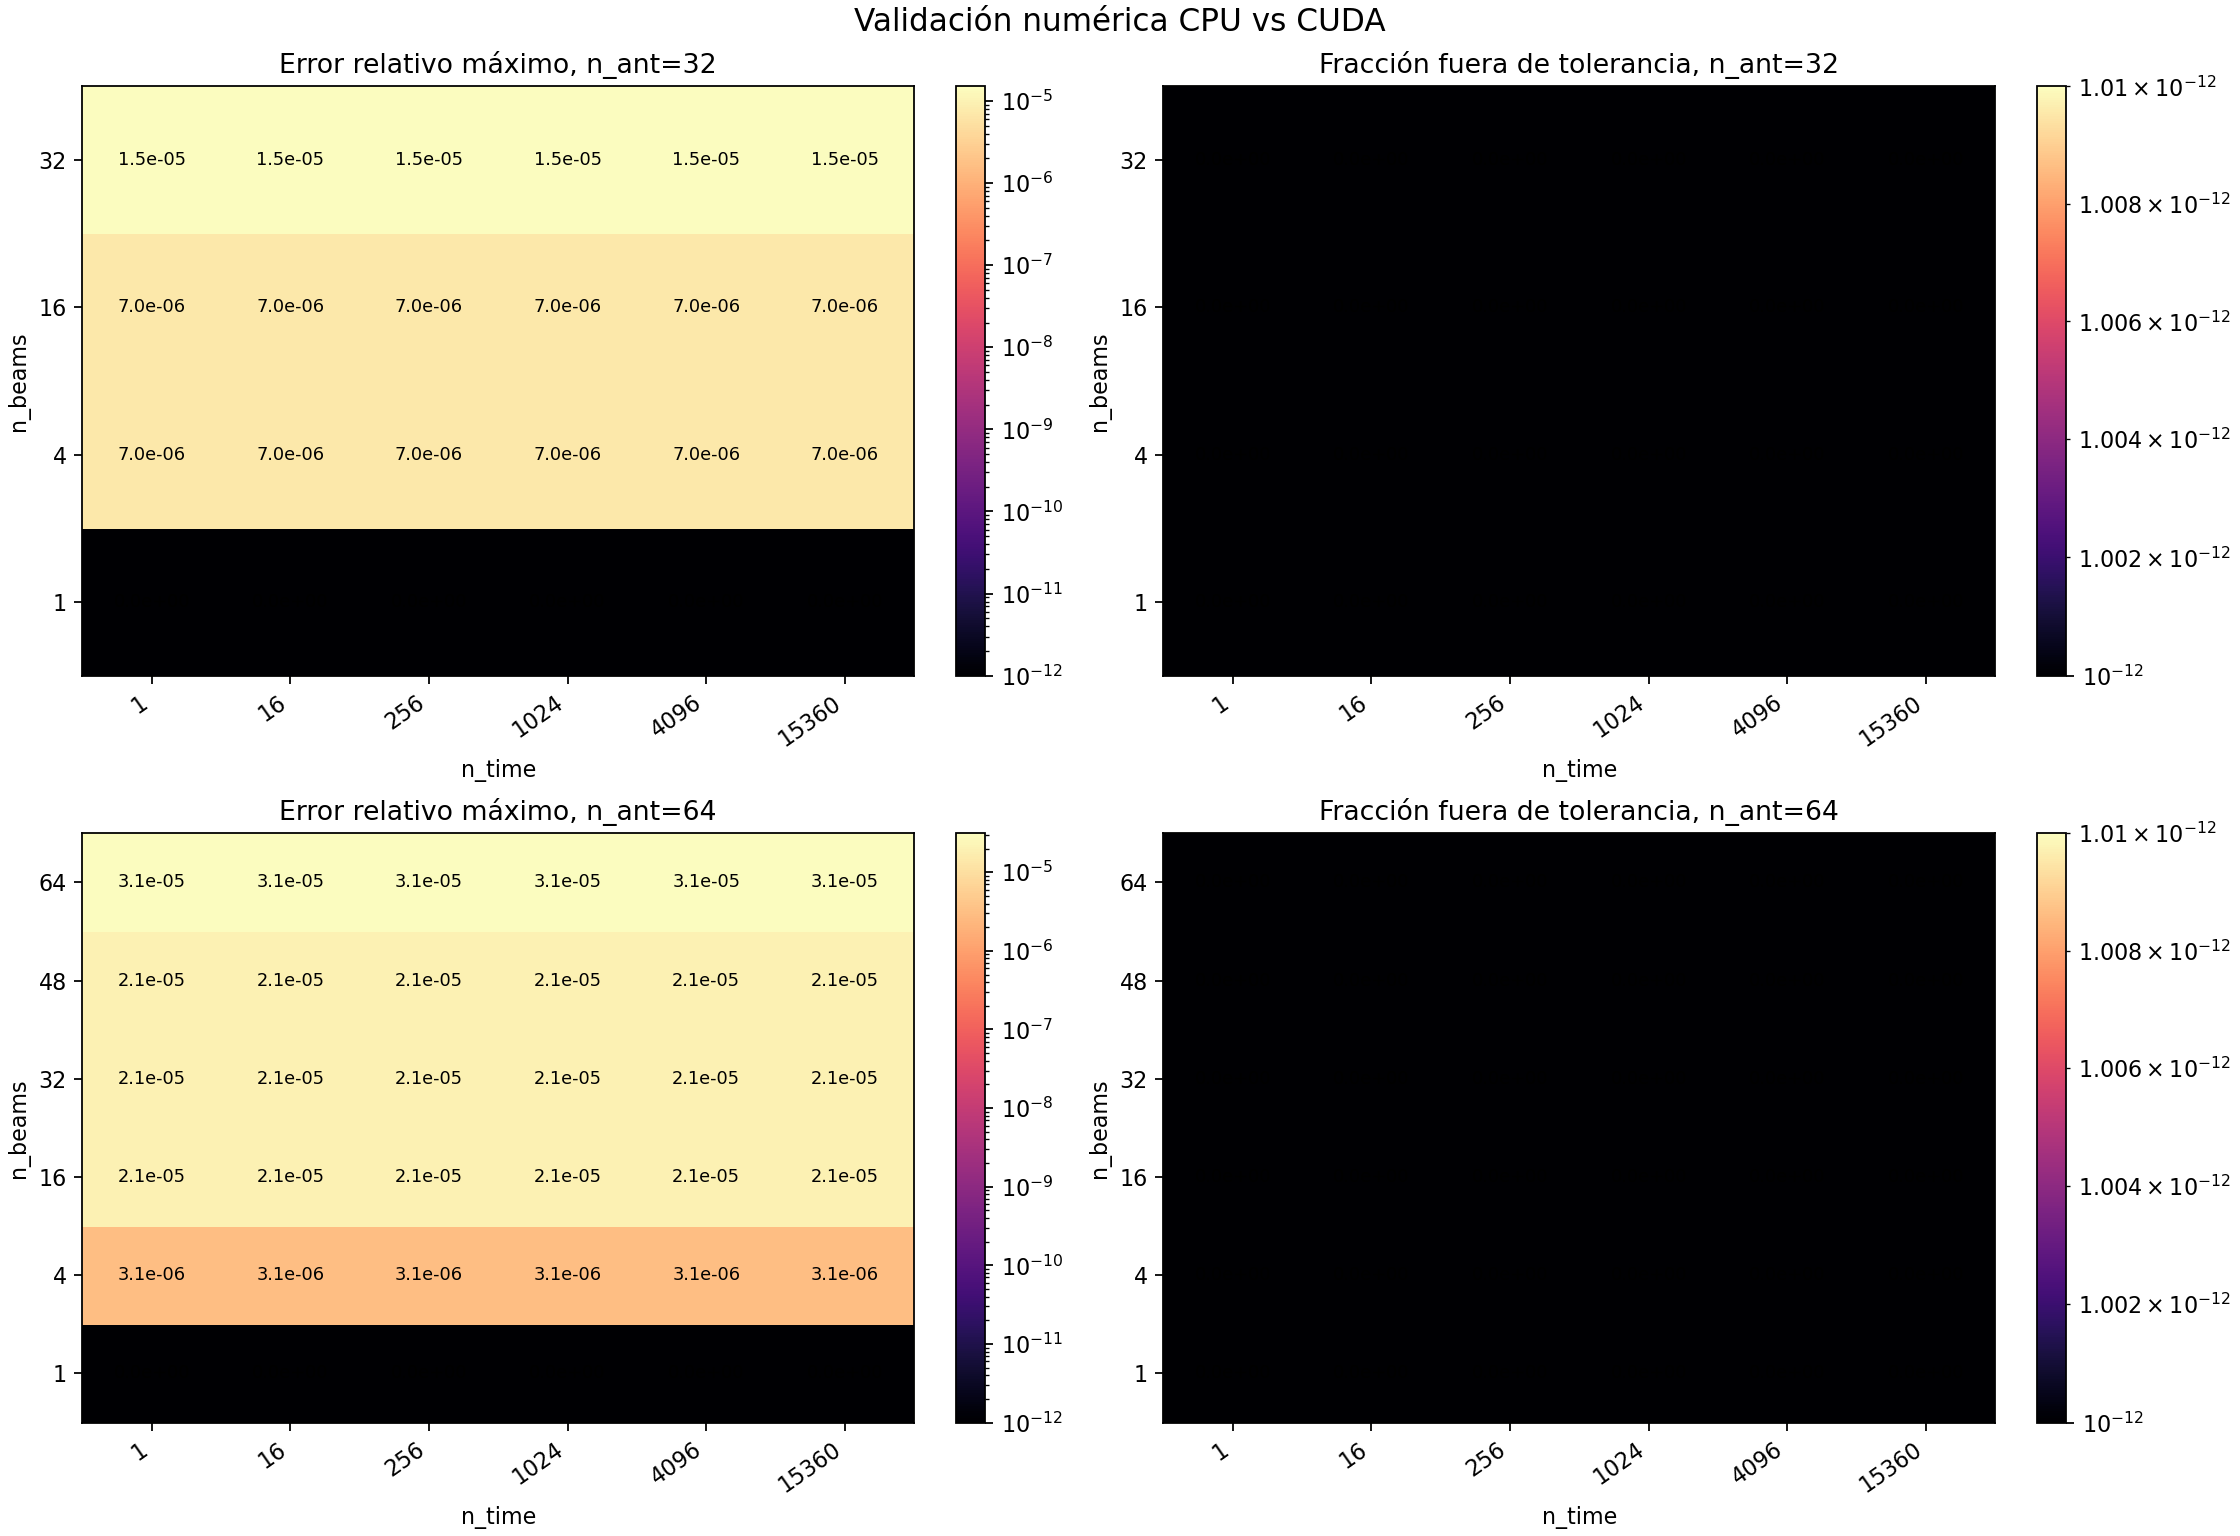
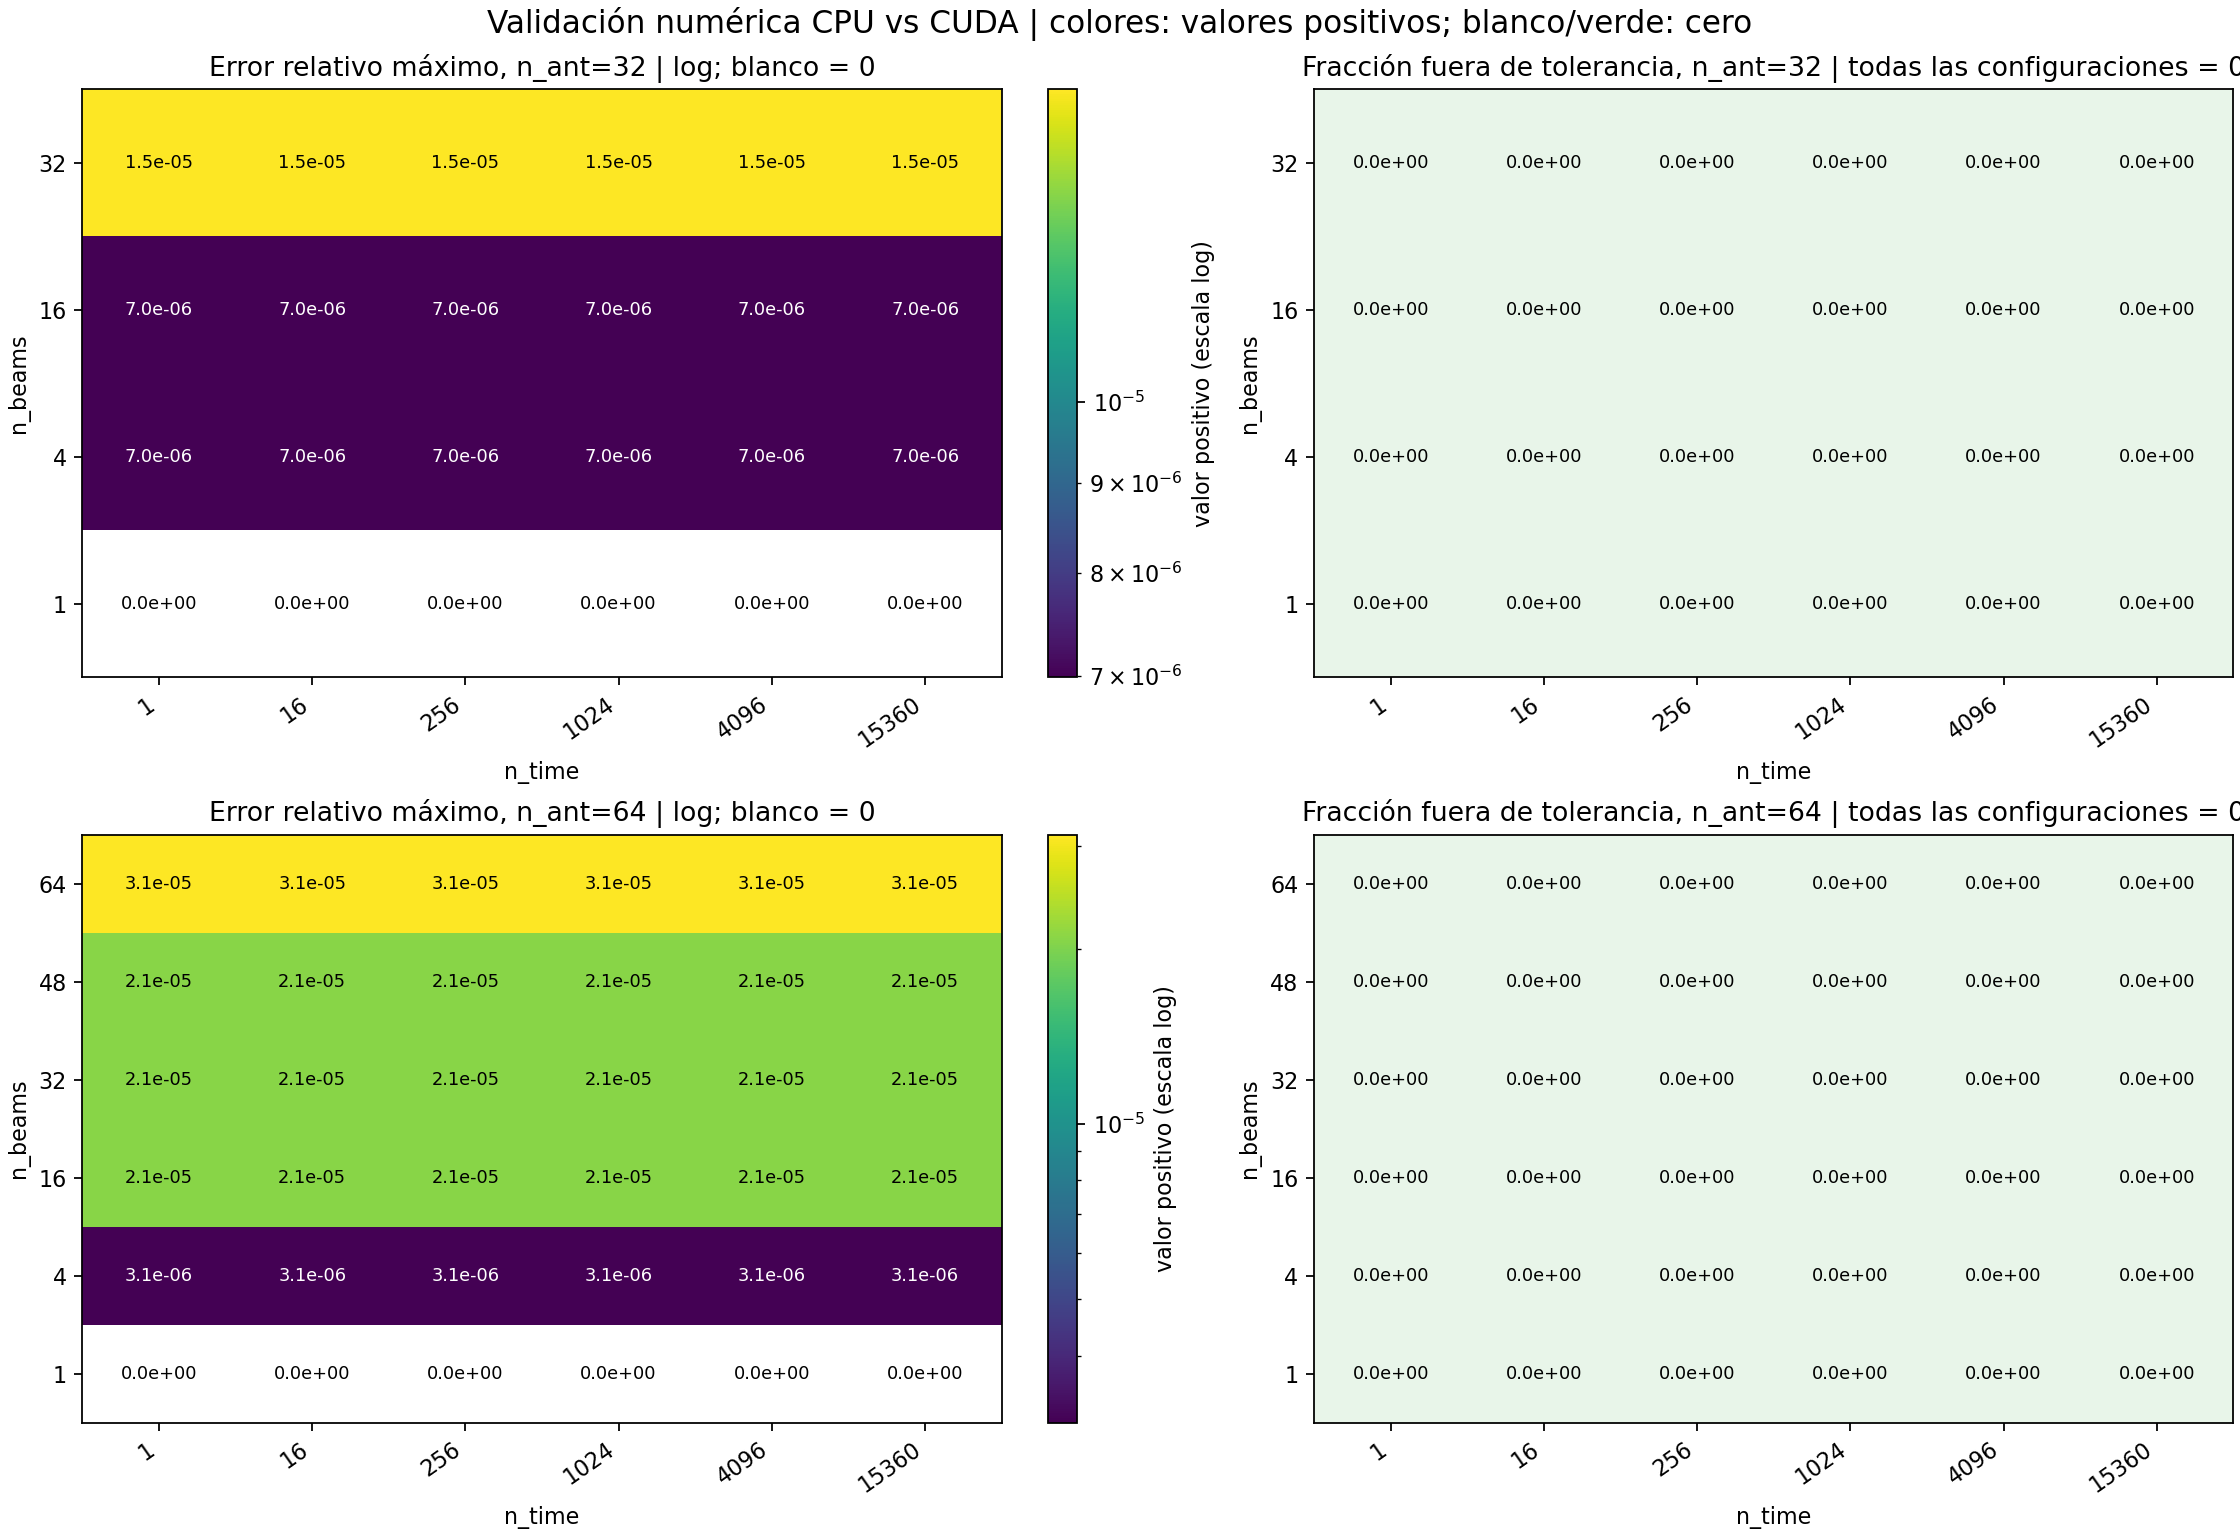
Last results

diff --git a/tools/plot_benchmark.py b/tools/plot_benchmark.py
@@ -103,6 +103,18 @@ def matrix_for(records: Iterable[dict[str, float]], n_ant: int,
     return beams, times, matrix
 
 
+def positive_log_limits(values: np.ndarray) -> tuple[float, float] | None:
+    values = np.asarray(values, dtype=np.float64)
+    positive = values[np.isfinite(values) & (values > 0.0)]
+    if not positive.size:
+        return None
+    lower = float(np.min(positive))
+    upper = float(np.max(positive))
+    if lower == upper:
+        lower = upper / 10.0
+    return lower, upper
+
+
 def _records_for(summary: list[dict[str, float]], n_ant: int,
                  n_beams: int) -> list[dict[str, float]]:
     return sorted(
@@ -198,13 +210,19 @@ def plot_performance(summary: list[dict[str, float]], metadata: dict,
     plt.close(figure)
 
 
-def _annotate_matrix(axis, matrix: np.ndarray, formatter: str) -> None:
+def _annotate_matrix(axis, matrix: np.ndarray, formatter: str,
+                     norm=None, colormap=None) -> None:
     for row in range(matrix.shape[0]):
         for column in range(matrix.shape[1]):
             value = matrix[row, column]
             if np.isfinite(value):
+                text_color = "black"
+                if norm is not None and colormap is not None and value > 0.0:
+                    red, green, blue, _ = colormap(norm(value))
+                    luminance = 0.2126 * red + 0.7152 * green + 0.0722 * blue
+                    text_color = "white" if luminance < 0.48 else "black"
                 axis.text(column, row, format(value, formatter), ha="center",
-                          va="center", fontsize=8, color="black")
+                          va="center", fontsize=8, color=text_color)
 
 
 def plot_speedup_heatmaps(summary: list[dict[str, float]],
@@ -252,7 +270,7 @@ def plot_validation(validation: list[dict[str, float]],
     import matplotlib
     matplotlib.use("Agg")
     import matplotlib.pyplot as plt
-    from matplotlib.colors import LogNorm
+    from matplotlib.colors import ListedColormap, LogNorm
 
     records = [dict(record, outside_fraction=(
         record["outside_tolerance"] / record["n_outputs"]))
@@ -268,23 +286,38 @@ def plot_validation(validation: list[dict[str, float]],
             ("outside_fraction", "Fracción fuera de tolerancia"),
         )):
             beams, times, matrix = matrix_for(records, n_ant, field)
-            display = np.maximum(matrix, 1.0e-12)
             axis = axes[row, column]
-            image = axis.imshow(
-                display, aspect="auto", origin="lower", cmap="magma",
-                norm=LogNorm(vmin=float(np.nanmin(display)),
-                             vmax=max(float(np.nanmax(display)),
-                                      float(np.nanmin(display)) * 1.01)),
-            )
+            log_limits = positive_log_limits(matrix)
+            if log_limits is None:
+                colormap = ListedColormap(["#e8f5e9"])
+                axis.imshow(
+                    np.zeros_like(matrix), aspect="auto", origin="lower",
+                    cmap=colormap, vmin=0.0, vmax=1.0,
+                )
+                title_suffix = " | todas las configuraciones = 0"
+                _annotate_matrix(axis, matrix, ".1e")
+            else:
+                colormap = plt.get_cmap("viridis").copy()
+                colormap.set_bad("white")
+                norm = LogNorm(vmin=log_limits[0], vmax=log_limits[1])
+                display = np.ma.masked_invalid(np.ma.masked_less_equal(matrix, 0.0))
+                image = axis.imshow(
+                    display, aspect="auto", origin="lower", cmap=colormap, norm=norm,
+                )
+                title_suffix = " | log; blanco = 0"
+                _annotate_matrix(axis, matrix, ".1e", norm, colormap)
+                figure.colorbar(image, ax=axis, label="valor positivo (escala log)")
             axis.set_xticks(np.arange(len(times)), [str(value) for value in times],
                             rotation=35, ha="right")
             axis.set_yticks(np.arange(len(beams)), [str(value) for value in beams])
             axis.set_xlabel("n_time")
             axis.set_ylabel("n_beams")
-            axis.set_title(f"{title}, n_ant={n_ant}")
-            _annotate_matrix(axis, matrix, ".1e")
-            figure.colorbar(image, ax=axis)
-    figure.suptitle("Validación numérica CPU vs CUDA", fontsize=14)
+            axis.set_title(f"{title}, n_ant={n_ant}{title_suffix}")
+    figure.suptitle(
+        "Validación numérica CPU vs CUDA | colores: valores positivos; "
+        "blanco/verde: cero",
+        fontsize=14,
+    )
     figure.savefig(output_path, dpi=160)
     plt.close(figure)
 

diff --git a/tests/test_plot_benchmark.py b/tests/test_plot_benchmark.py
@@ -65,6 +65,34 @@ class PlotBenchmarkTest(unittest.TestCase):
         np.testing.assert_array_equal(times, [1, 16])
         np.testing.assert_allclose(matrix, [[0.5, 1.0], [1.5, 3.0]])
 
+    def test_positive_log_limits_ignore_zero_and_handle_all_zero(self):
+        limits = plot_benchmark.positive_log_limits(
+            np.asarray([[0.0, 1.0e-7], [1.0e-5, np.nan]])
+        )
+        self.assertEqual(limits, (1.0e-7, 1.0e-5))
+        self.assertIsNone(plot_benchmark.positive_log_limits(np.zeros((2, 3))))
+
+    def test_validation_plot_handles_zero_and_small_errors(self):
+        records = [
+            {"n_ant": 32.0, "n_beams": 1.0, "n_time": 1.0,
+             "n_outputs": 672.0, "max_relative_error": 0.0,
+             "outside_tolerance": 0.0},
+            {"n_ant": 32.0, "n_beams": 1.0, "n_time": 16.0,
+             "n_outputs": 10_752.0, "max_relative_error": 0.0,
+             "outside_tolerance": 0.0},
+            {"n_ant": 32.0, "n_beams": 4.0, "n_time": 1.0,
+             "n_outputs": 2_688.0, "max_relative_error": 1.0e-7,
+             "outside_tolerance": 0.0},
+            {"n_ant": 32.0, "n_beams": 4.0, "n_time": 16.0,
+             "n_outputs": 43_008.0, "max_relative_error": 1.0e-5,
+             "outside_tolerance": 0.0},
+        ]
+        with tempfile.TemporaryDirectory() as directory:
+            output = Path(directory) / "validation.png"
+            plot_benchmark.plot_validation(records, output)
+            self.assertTrue(output.exists())
+            self.assertGreater(output.stat().st_size, 0)
+
     def test_csv_loader_and_summary_writer(self):
         with tempfile.TemporaryDirectory() as directory:
             source = Path(directory) / "timings.csv"

diff --git a/tests/test_geometry.cpp b/tests/test_geometry.cpp
@@ -1,5 +1,6 @@
 #include "beamformer/config.hpp"
 #include "beamformer/geometry.hpp"
+#include "beamformer/physics.hpp"
 
 #include <cassert>
 #include <cmath>
@@ -58,6 +59,14 @@ int main() {
 
     const auto beams_32 = rectangular_beam_grid(32);
     assert(beams_32.size() == 32);
+    const float wavelength_400_m =
+        static_cast<float>(speed_of_light_m_per_s / 400'000'000.0);
+    const float expected_delta_l = wavelength_400_m / (8.0F * default_spacing_m);
+    const float expected_delta_m = wavelength_400_m / (4.0F * default_spacing_m);
+    assert(close(beams_32[1][0] - beams_32[0][0], expected_delta_l));
+    assert(close(beams_32[8][1] - beams_32[0][1], expected_delta_m));
+    assert(close(beams_32[12][0], 0.5F * expected_delta_l));
+    assert(close(beams_32[12][1], -0.5F * expected_delta_m));
     assert(beams_32.front()[0] < 0.0F && beams_32.front()[1] < 0.0F);
     assert(beams_32.back()[0] > 0.0F && beams_32.back()[1] > 0.0F);
     for (const auto& direction : beams_32) {

diff --git a/tests/test_plot_results.py b/tests/test_plot_results.py
@@ -47,6 +47,14 @@ class PlotResultsTest(unittest.TestCase):
     def test_rectangular_final_grid(self):
         directions = plot_results.rectangular_beam_directions(32)
         self.assertEqual(directions.shape, (32, 3))
+        wavelength_m = plot_results.SPEED_OF_LIGHT_M_PER_S / 400_000_000.0
+        expected_delta_l = wavelength_m / (8 * 0.6)
+        expected_delta_m = wavelength_m / (4 * 0.6)
+        np.testing.assert_allclose(np.diff(directions[:8, 0]), expected_delta_l)
+        self.assertAlmostEqual(directions[8, 1] - directions[0, 1], expected_delta_m)
+        np.testing.assert_allclose(
+            directions[12, :2], [0.5 * expected_delta_l, -0.5 * expected_delta_m]
+        )
         np.testing.assert_allclose(np.linalg.norm(directions, axis=1), 1.0)
         self.assertLess(directions[0, 0], 0.0)
         self.assertLess(directions[0, 1], 0.0)
@@ -98,7 +106,6 @@ class PlotResultsTest(unittest.TestCase):
         changed = plot_results.comparison_metrics(reference, candidate, 1.0e-3, 1.0e-3)
         self.assertAlmostEqual(changed["max_absolute_error"], 0.2, places=5)
         self.assertEqual(changed["outside_tolerance"], 1)
-
 
 if __name__ == "__main__":
     unittest.main()

diff --git a/tools/plot_results.py b/tools/plot_results.py
@@ -89,8 +89,8 @@ def rectangular_beam_directions(
 ) -> np.ndarray:
     rows, columns = array_shape(n_ant)
     wavelength_m = SPEED_OF_LIGHT_M_PER_S / design_frequency_hz
-    delta_l = wavelength_m / ((columns - 1) * spacing_m)
-    delta_m = wavelength_m / ((rows - 1) * spacing_m)
+    delta_l = wavelength_m / (columns * spacing_m)
+    delta_m = wavelength_m / (rows * spacing_m)
     l_centers = (np.arange(columns) - (columns - 1) / 2.0) * delta_l
     m_centers = (np.arange(rows) - (rows - 1) / 2.0) * delta_m
     directions = []
@@ -354,8 +354,8 @@ def plot_sky_coverage(args: argparse.Namespace, frequencies: np.ndarray,
 
     rows, columns = array_shape(args.n_ant)
     wavelength_design = SPEED_OF_LIGHT_M_PER_S / args.design_frequency_hz
-    delta_l = wavelength_design / ((columns - 1) * args.spacing_m)
-    delta_m = wavelength_design / ((rows - 1) * args.spacing_m)
+    delta_l = wavelength_design / (columns * args.spacing_m)
+    delta_m = wavelength_design / (rows * args.spacing_m)
     fig, axes = plt.subplots(2, 3, figsize=(17, 10), constrained_layout=True)
     fig.suptitle(
         f"Full-sky rectangular beam grid | {rows}x{columns} array, "

diff --git a/src/geometry.cpp b/src/geometry.cpp
@@ -135,10 +135,8 @@ std::vector<Vec3> rectangular_beam_grid(const std::size_t n_ant,
 
     const double wavelength_m = speed_of_light_m_per_s
                                 / static_cast<double>(design_frequency_hz);
-    const double aperture_x_m = static_cast<double>(columns - 1) * spacing_m;
-    const double aperture_y_m = static_cast<double>(rows - 1) * spacing_m;
-    const double delta_l = wavelength_m / aperture_x_m;
-    const double delta_m = wavelength_m / aperture_y_m;
+    const double delta_l = wavelength_m / (static_cast<double>(columns) * spacing_m);
+    const double delta_m = wavelength_m / (static_cast<double>(rows) * spacing_m);
 
     std::vector<Vec3> directions;
     directions.reserve(n_ant);

diff --git a/README.md b/README.md
@@ -1,7 +1,7 @@
-# Offline CHARTS Voltage Beamformer PoC
+# CHARTS Voltage Beamformer PoC
 
 Small standalone proof of concept for comparing a direct CPU voltage beamformer with an
-equivalent CUDA implementation. It is intentionally not integrated into Kotekan.
+equivalent CUDA implementation.
 
 ## Current implementation
 
@@ -50,28 +50,32 @@ and GPU maxima, as well as every per-time maximum, to recover beam 12; it also c
 CPU/GPU intensities with `atol=1e-3`, `rtol=1e-5`.
 
 On the tested RTX 4090, all four time sizes recovered beam 12 on both backends. The
-integrated target-to-runner-up power ratio was `19.182` and the maximum absolute CPU/GPU
-error was `0.00390625`, with no output outside the combined tolerance.
+integrated target-to-runner-up power ratio was `28.675` and the maximum absolute CPU/GPU
+error was `0.0078125`, with no output outside the combined tolerance.
 
 ```bash
 ctest --test-dir build -R cuda_point_source --output-on-failure -V
 ```
 
 The graphical realization uses `T=4` and the exact beam-12 direction
-`(l,m)=(0.089223945833,-0.208189206944)`. After generating the common packed voltage and
-weight files and running both backends, reproduce both dashboards with:
+`(l,m)=(0.078070952604,-0.156141905208)`. After generating the common packed voltage and
+weight files and running both backends, reproduce the separate CPU and GPU dashboards
+with:
 
 ```bash
 conda run -n kotekan_test python tools/plot_results.py \
-    --input results/point_source_32beam_cpu_intensity.bin --label CPU \
-    --compare results/point_source_32beam_cuda_intensity.bin --compare-label CUDA \
+    --input results/point_source_32beam_nxd_grid_cpu_intensity.bin --label CPU \
     --n-time 4 --n-freq 672 --n-ant 32 --n-beams 32 \
     --synthetic-type point-source \
-    --source-l 0.089223945833 --source-m -0.208189206944 --amplitude 4 \
-    --abs-tolerance 0.001 --rel-tolerance 0.00001 \
-    --output results/cpu_cuda_point_source_32beam_validation.png \
-    --comparison-output results/cpu_cuda_point_source_32beam_comparison.png \
-    --summary-json results/cpu_cuda_point_source_32beam_metrics.json
+    --source-l 0.078070952604 --source-m -0.156141905208 --amplitude 4 \
+    --output results/cpu_32beam_point_source_validation_nxd_grid.png
+
+conda run -n kotekan_test python tools/plot_results.py \
+    --input results/point_source_32beam_nxd_grid_gpu_intensity.bin --label GPU \
+    --n-time 4 --n-freq 672 --n-ant 32 --n-beams 32 \
+    --synthetic-type point-source \
+    --source-l 0.078070952604 --source-m -0.156141905208 --amplitude 4 \
+    --output results/gpu_32beam_point_source_validation_nxd_grid.png
 ```
 
 When a CUDA compiler is found, CMake builds `beamformer_cuda`; otherwise the CPU-only
@@ -108,8 +112,9 @@ The point source uses
 quantized to signed `int4`, and repeats that spectrum for every requested time sample.
 For non-final validation and benchmark beam counts, the default line uses
 `l=(beam-floor(n_beams/2))*0.02`, `m=0`. When `n_beams=n_ant`, a rectangular grid is
-designed at 400 MHz using `delta_l=lambda/D_x` and `delta_m=lambda/D_y`; its fixed
-directions are reused at every channel while weights remain frequency-dependent.
+designed at 400 MHz using `delta_l=lambda/(N_x*d)` and
+`delta_m=lambda/(N_y*d)`; its fixed directions are reused at every channel while weights
+remain frequency-dependent.
 
 ## Generate weights and run CPU/CUDA
 
@@ -205,7 +210,9 @@ The current generated artifacts are:
 - `results/cpu_32beam_point_source_validation.png`;
 - `results/cpu_cuda_point_source_32beam_validation.png`;
 - `results/cpu_cuda_point_source_32beam_comparison.png`;
-- `results/cpu_cuda_point_source_32beam_metrics.json`.
+- `results/cpu_cuda_point_source_32beam_metrics.json`;
+- `results/cpu_32beam_point_source_validation_nxd_grid.png`;
+- `results/gpu_32beam_point_source_validation_nxd_grid.png`.
 
 Use the same script for numerical and graphical CPU/CUDA comparison:
 
@@ -341,6 +348,11 @@ Generated products are:
 - `results/cpu_cuda_benchmark_performance.png`;
 - `results/cpu_cuda_benchmark_speedup_heatmaps.png`;
 - `results/cpu_cuda_benchmark_validation.png`.
+
+In the numerical-validation dashboard, exact zeros are not replaced by an artificial
+floor. Positive errors use logarithmic color normalization, zero-error cells are white,
+and an all-zero outside-tolerance panel is light green. Cell annotations remain the exact
+CSV values.
 
 For a short functional check before a full run:
 